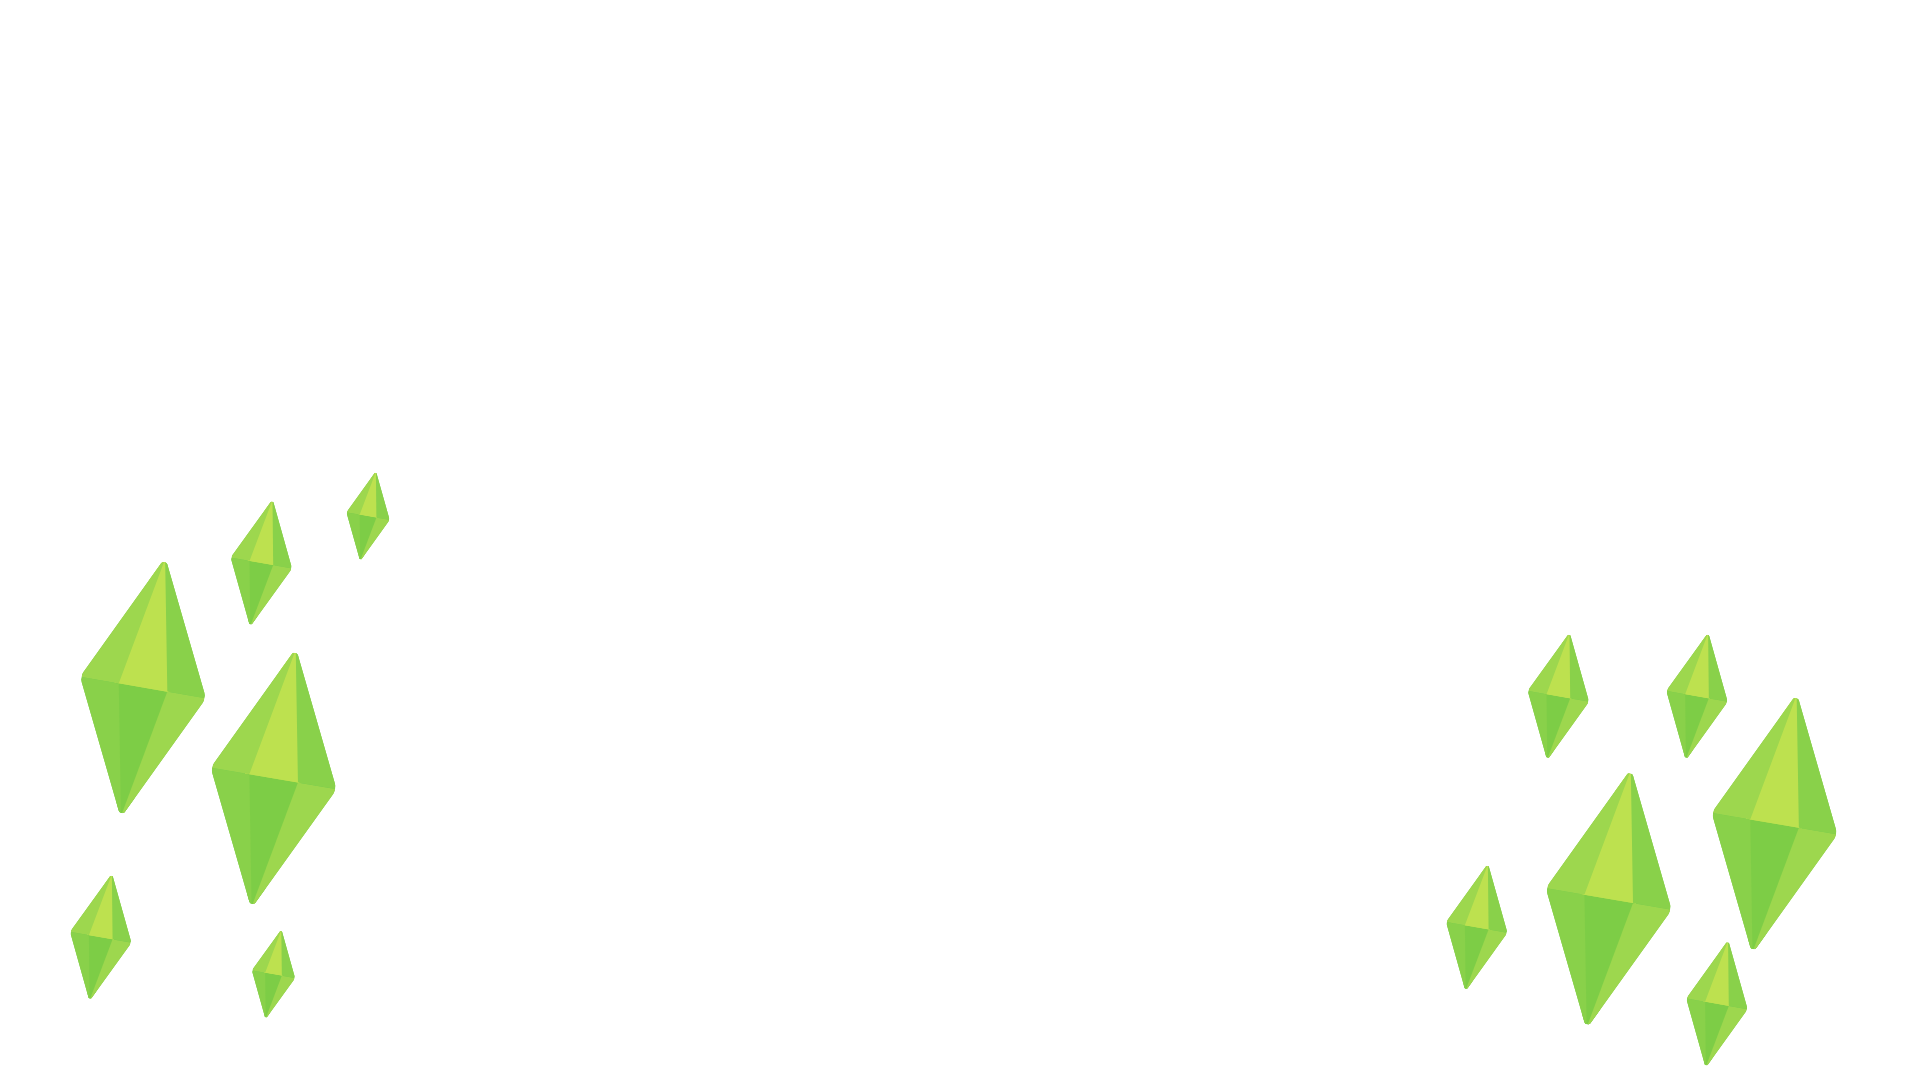
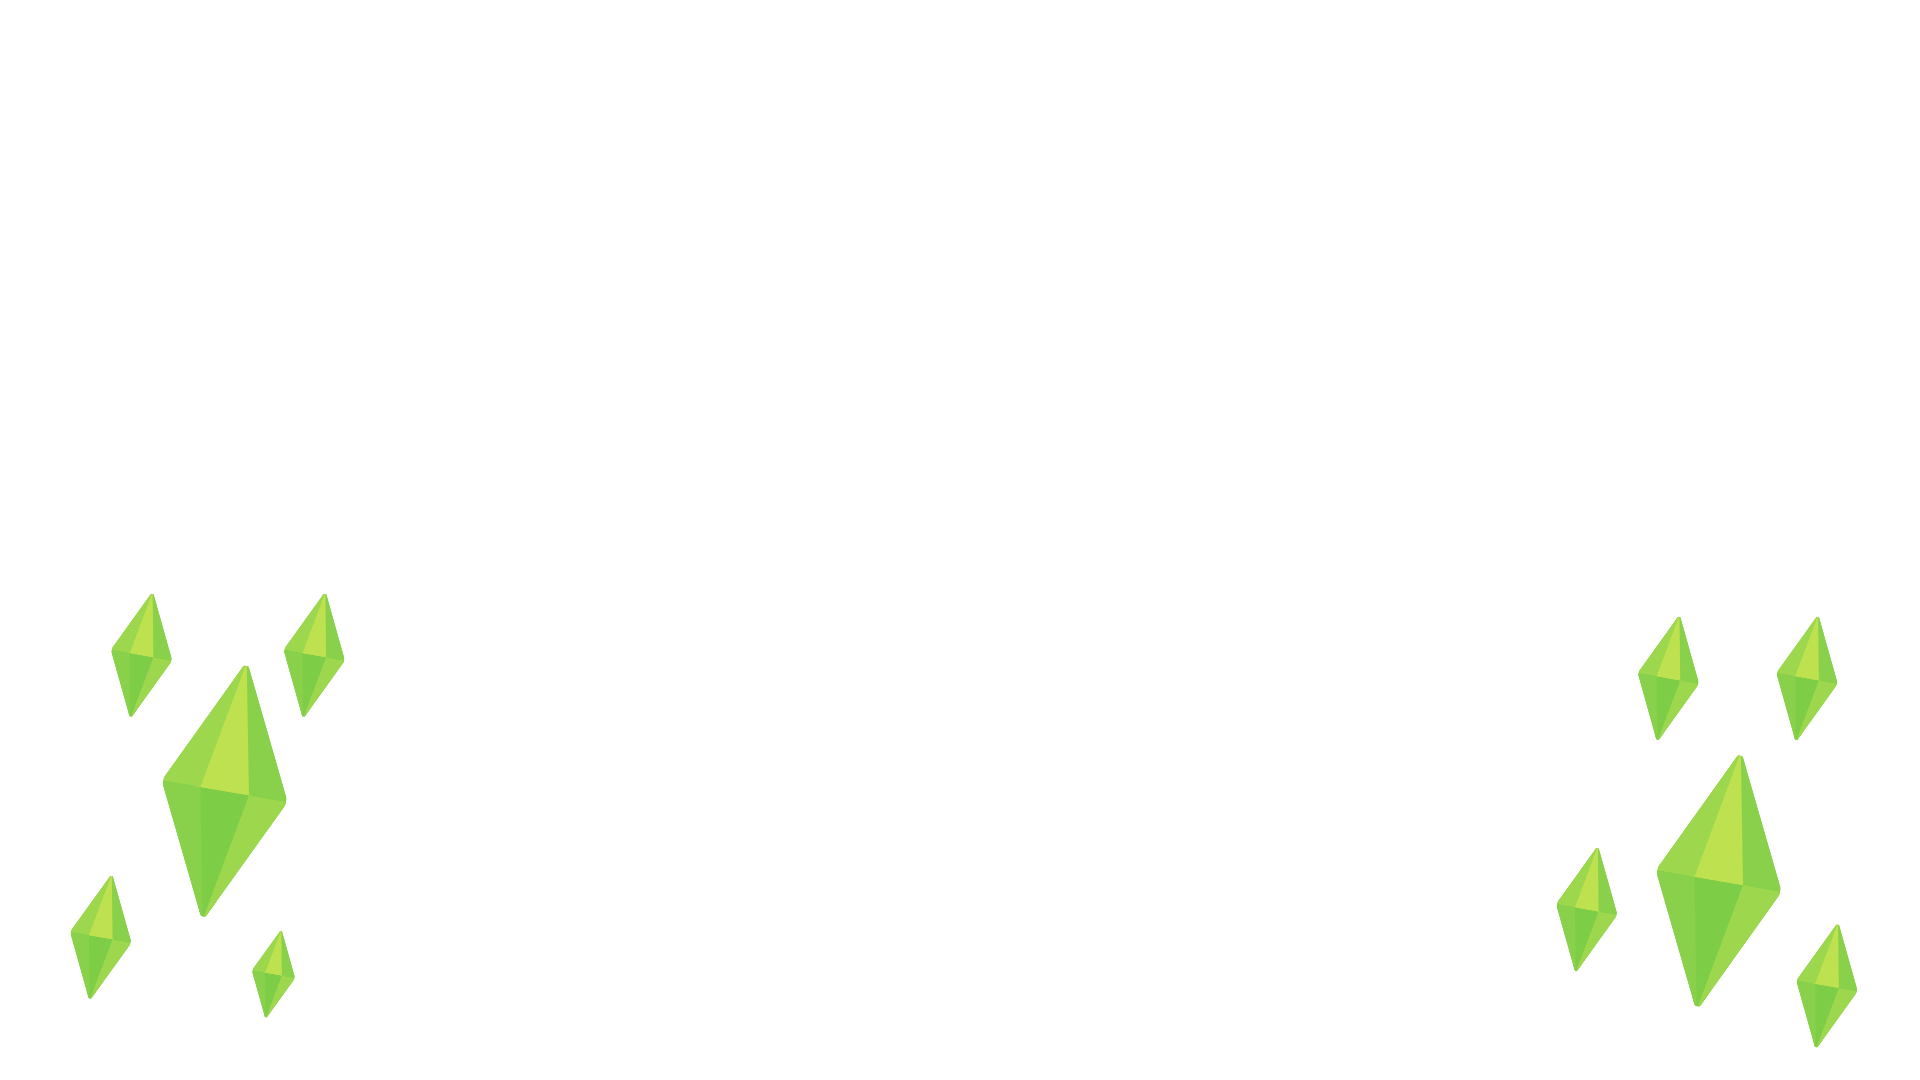
about bg changed

Changed region(s): [[0.75, 0.5806, 0.9688, 0.9778], [0.0312, 0.4278, 0.2188, 0.8556]]

diff --git a/src/components/About.jsx b/src/components/About.jsx
@@ -4,7 +4,7 @@ const About = () => {
   return (
     <section
       id="about"
-      className="bg-sims bg-bottom bg-no-repeat mt-24 w-screen"
+      className="bg-sims bg-bottom bg-no-repeat mt-24 w-screen bg-cover"
     >
       <div className="backdrop-blur-[2px]">
         <div className="flex flex-col flex-wrap lg:flex-row justify-center items-center gap-24 py-24">
